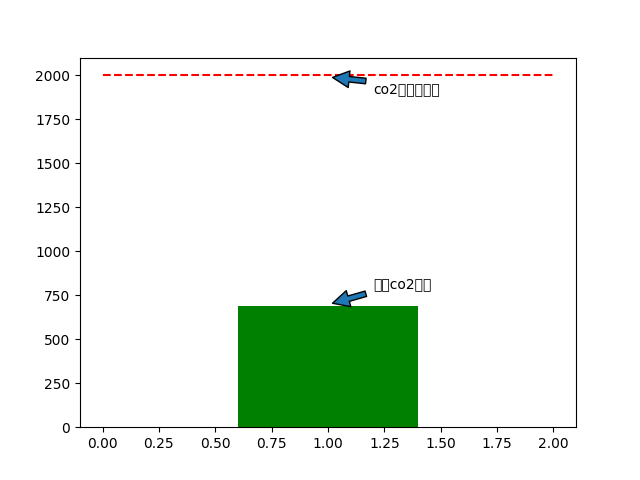
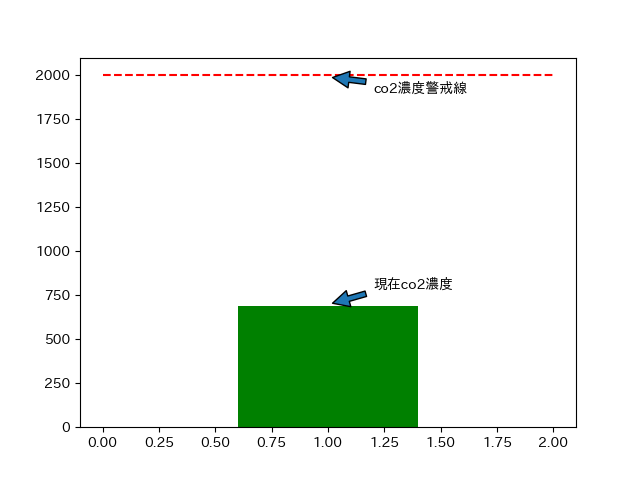
update php

diff --git a/php/kddisensor.py b/php/kddisensor.py
@@ -12,6 +12,8 @@ fig = pyplot.figure()
 import time
 import numpy as np
 from datetime import datetime as dt
+from matplotlib.font_manager import FontProperties
+
 
 def kddiapi():
     now=datetime.now()
@@ -96,95 +98,116 @@ def tojson():
     nowheatstrokerisk=heatstrokerisk[nownum]
     nowco=nowco2
 
-    #date draw
-    for i in time:
-        time_i.append(dt.strptime(i,'%Y/%m/%d %H:%M:%S'))
 
-    time_j=[]
-    for i in time_i:
-        time_j.append('{}:{}'.format(i.hour,i.minute))
+
+
+    font_path = '/usr/share/fonts/truetype/takao-gothic/TakaoPGothic.ttf'
+    font_prop = FontProperties(fname=font_path)
+    pyplot.rcParams['font.family'] = font_prop.get_name()
+    pyplot.subplot(121)
+    pyplot.title('CO2 concentration')
+    p1=pyplot.bar(1, nowco,width=0.8,color='green')
+    pyplot.plot([0,2],[2000,2000],"red",linestyle='dashed')
+    pyplot.annotate('現在co2濃度',xy=(1,nowco+10),xytext=(1.2,nowco+300),arrowprops=dict(shrink=0.1))
+    pyplot.annotate('co2濃度警戒線',xy=(1,2000-10),xytext=(1.2,2000-300),arrowprops=dict(shrink=0.1))
+    pyplot.subplot(122)
+    pyplot.title('Discomfort index')
+    pyplot.ylim(50,80)
+    p2=pyplot.bar(1, nowdiscomfort,width=0.8,color='blue')
+    pyplot.plot([0,2],[75,75],"red",linestyle='dashed')
+    pyplot.plot([0,2],[60,60],"red",linestyle='dashed')
+    pyplot.annotate('不快指数警戒線',xy=(1,75+1),xytext=(1.2,75+3),arrowprops=dict(shrink=0.1))
+    pyplot.annotate('不快指数警戒線',xy=(1,60-1),xytext=(1.2,60-3),arrowprops=dict(shrink=0.1))
+    #pyplot.savefig('kddifigure.png')
+    # #date draw
+    # for i in time:
+    #     time_i.append(dt.strptime(i,'%Y/%m/%d %H:%M:%S'))
+
+    # time_j=[]
+    # for i in time_i:
+    #     time_j.append('{}:{}'.format(i.hour,i.minute))
     
 
 
-    def make_patch_spines_invisible(ax):
-        ax.set_frame_on(True)
-        ax.patch.set_visible(False)
-        for sp in ax.spines.values():
-            sp.set_visible(False)
+    # def make_patch_spines_invisible(ax):
+    #     ax.set_frame_on(True)
+    #     ax.patch.set_visible(False)
+    #     for sp in ax.spines.values():
+    #         sp.set_visible(False)
 
-    fig,host=pyplot.subplots(figsize=(20,10))
-    fig.subplots_adjust(right=0.5)
-    par1=host.twinx()
-    par2=host.twinx()
-    par3=host.twinx()
-    par4=host.twinx()
-    par5=host.twinx()
-    par6=host.twinx()
-    par7=host.twinx()
-    par8=host.twinx()
+    # fig,host=pyplot.subplots(figsize=(20,10))
+    # fig.subplots_adjust(right=0.5)
+    # par1=host.twinx()
+    # par2=host.twinx()
+    # par3=host.twinx()
+    # par4=host.twinx()
+    # par5=host.twinx()
+    # par6=host.twinx()
+    # par7=host.twinx()
+    # par8=host.twinx()
 
-    # Offset the right spine of par2.  The ticks and label have already been
-    # placed on the right by twinx above.
-    par2.spines["right"].set_position(("axes", 1.1))
-    make_patch_spines_invisible(par2)
-    par2.spines["right"].set_visible(True)
-    #
-    par3.spines["right"].set_position(("axes", 1.2))
-    make_patch_spines_invisible(par3)
-    par3.spines["right"].set_visible(True)
-    #
-    par4.spines["right"].set_position(("axes", 1.3))
-    make_patch_spines_invisible(par4)
-    par4.spines["right"].set_visible(True)
-    #
-    par5.spines["right"].set_position(("axes", 1.5))
-    make_patch_spines_invisible(par5)
-    par5.spines["right"].set_visible(True)
-    #
-    par6.spines["right"].set_position(("axes", 1.7))
-    make_patch_spines_invisible(par6)
-    par6.spines["right"].set_visible(True)
-    #
-    par7.spines["right"].set_position(("axes", 1.9))
-    make_patch_spines_invisible(par7)
-    par7.spines["right"].set_visible(True)
-    #
-    par8.spines["right"].set_position(("axes",2))
-    make_patch_spines_invisible(par8)
-    par8.spines["right"].set_visible(True)
-    #
-    p1, = host.plot(time_j,volume,'darkgreen',  label="volume")
-    p2, = par1.plot(time_j,temperature,'pink', label="Temperature",antialiased="True")
-    p3, = par2.plot(time_j,humidity, 'b',label="humidity",antialiased="True")
-    p4, = par3.plot(time_j,brightness, 'y',label="brightness",antialiased="True")
-    p5, = par4.plot(time_j,ultraviolet, 'violet',label="ultraviolet",antialiased="True")
-    p6, = par5.plot(time_j,atmopressure, 'grey',label="atmopressure",antialiased="True")
-    p7, = par6.plot(time_j,discomfort, 'peru',label="discomfort",antialiased="True")
-    p8, = par7.plot(time_j,heatstrokerisk, 'r',label="heatstrokerisk",antialiased="True")
-    p9, = par8.plot(time_j,co2, 'lightgreen',label="co2",antialiased="True")
+    # # Offset the right spine of par2.  The ticks and label have already been
+    # # placed on the right by twinx above.
+    # par2.spines["right"].set_position(("axes", 1.1))
+    # make_patch_spines_invisible(par2)
+    # par2.spines["right"].set_visible(True)
+    # #
+    # par3.spines["right"].set_position(("axes", 1.2))
+    # make_patch_spines_invisible(par3)
+    # par3.spines["right"].set_visible(True)
+    # #
+    # par4.spines["right"].set_position(("axes", 1.3))
+    # make_patch_spines_invisible(par4)
+    # par4.spines["right"].set_visible(True)
+    # #
+    # par5.spines["right"].set_position(("axes", 1.5))
+    # make_patch_spines_invisible(par5)
+    # par5.spines["right"].set_visible(True)
+    # #
+    # par6.spines["right"].set_position(("axes", 1.7))
+    # make_patch_spines_invisible(par6)
+    # par6.spines["right"].set_visible(True)
+    # #
+    # par7.spines["right"].set_position(("axes", 1.9))
+    # make_patch_spines_invisible(par7)
+    # par7.spines["right"].set_visible(True)
+    # #
+    # par8.spines["right"].set_position(("axes",2))
+    # make_patch_spines_invisible(par8)
+    # par8.spines["right"].set_visible(True)
+    # #
+    # p1, = host.plot(time_j,volume,'darkgreen',  label="volume")
+    # p2, = par1.plot(time_j,temperature,'pink', label="Temperature",antialiased="True")
+    # p3, = par2.plot(time_j,humidity, 'b',label="humidity",antialiased="True")
+    # p4, = par3.plot(time_j,brightness, 'y',label="brightness",antialiased="True")
+    # p5, = par4.plot(time_j,ultraviolet, 'violet',label="ultraviolet",antialiased="True")
+    # p6, = par5.plot(time_j,atmopressure, 'grey',label="atmopressure",antialiased="True")
+    # p7, = par6.plot(time_j,discomfort, 'peru',label="discomfort",antialiased="True")
+    # p8, = par7.plot(time_j,heatstrokerisk, 'r',label="heatstrokerisk",antialiased="True")
+    # p9, = par8.plot(time_j,co2, 'lightgreen',label="co2",antialiased="True")
 
-    host.set_xlabel("time")
-    host.set_ylabel("volume")
-    par1.set_ylabel("Temperature")
-    par2.set_ylabel("humidity")
-    par3.set_ylabel("brightness")
-    par4.set_ylabel("ultraviolet")
-    par5.set_ylabel("atmopressure")
-    par6.set_ylabel("discomfort")
-    par7.set_ylabel("heatstrokerisk")
-    par8.set_ylabel("co2")
+    # host.set_xlabel("time")
+    # host.set_ylabel("volume")
+    # par1.set_ylabel("Temperature")
+    # par2.set_ylabel("humidity")
+    # par3.set_ylabel("brightness")
+    # par4.set_ylabel("ultraviolet")
+    # par5.set_ylabel("atmopressure")
+    # par6.set_ylabel("discomfort")
+    # par7.set_ylabel("heatstrokerisk")
+    # par8.set_ylabel("co2")
 
-    tkw = dict(size=4, width=1.5)
-    host.tick_params(axis='y', colors=p1.get_color(), **tkw)
-    par1.tick_params(axis='y', colors=p2.get_color(), **tkw)
-    par2.tick_params(axis='y', colors=p3.get_color(), **tkw)
-    par3.tick_params(axis='y', colors=p4.get_color(), **tkw)
-    par4.tick_params(axis='y', colors=p5.get_color(), **tkw)
-    par5.tick_params(axis='y', colors=p6.get_color(), **tkw)
-    par6.tick_params(axis='y', colors=p7.get_color(), **tkw)
-    par7.tick_params(axis='y', colors=p8.get_color(), **tkw)
-    par8.tick_params(axis='y', colors=p9.get_color(), **tkw)
-    host.tick_params(axis='x',labelsize=8,**tkw)
+    # tkw = dict(size=4, width=1.5)
+    # host.tick_params(axis='y', colors=p1.get_color(), **tkw)
+    # par1.tick_params(axis='y', colors=p2.get_color(), **tkw)
+    # par2.tick_params(axis='y', colors=p3.get_color(), **tkw)
+    # par3.tick_params(axis='y', colors=p4.get_color(), **tkw)
+    # par4.tick_params(axis='y', colors=p5.get_color(), **tkw)
+    # par5.tick_params(axis='y', colors=p6.get_color(), **tkw)
+    # par6.tick_params(axis='y', colors=p7.get_color(), **tkw)
+    # par7.tick_params(axis='y', colors=p8.get_color(), **tkw)
+    # par8.tick_params(axis='y', colors=p9.get_color(), **tkw)
+    # host.tick_params(axis='x',labelsize=8,**tkw)
 
     pyplot.savefig('kddifigure.png')
 
@@ -227,11 +250,11 @@ def pic():
 if __name__=='__main__':
     interval=700
     while True:
-        kddiapi()
-        transcsv()
-        #tojson()
-        tophp()
-        pic()
+       # kddiapi()
+        #transcsv()
+        tojson()
+        #tophp()
+       # pic()
         time.sleep(interval)
 
 

diff --git a/php/kddifig.py b/php/kddifig.py
@@ -111,10 +111,10 @@ def tojson():
     pyplot.rcParams['font.family'] = font_prop.get_name()
     p1=pyplot.bar(1, nowco,width=0.8,color='green')
     pyplot.plot([0,2],[2000,2000],"red",linestyle='dashed')
-    pyplot.annotate('現在co2濃度',xy=(1,nowco+10),xytext=(1.2,nowco+100),arrowprops=dict(shrink=0.1))
-    pyplot.annotate('co2濃度警戒線',xy=(1,2000-10),xytext=(1.2,2000-100),arrowprops=dict(shrink=0.1))
+    pyplot.annotate(u'現在co2濃度',xy=(1,nowco+10),xytext=(1.2,nowco+100),arrowprops=dict(shrink=0.1))
+    pyplot.annotate(u'co2濃度警戒線',xy=(1,2000-10),xytext=(1.2,2000-100),arrowprops=dict(shrink=0.1))
     pyplot.savefig('kddifigure1.png')
-    
+
 
     # def make_patch_spines_invisible(ax):
     #     ax.set_frame_on(True)
